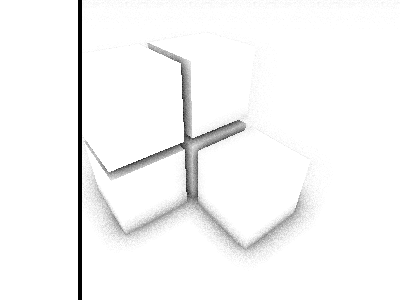
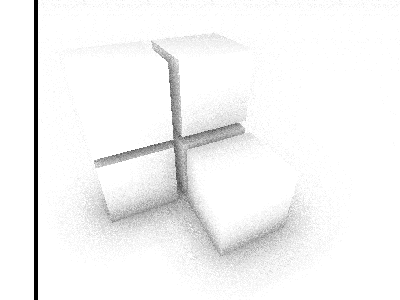
prettier ambient occlussion with less samples

diff --git a/effects/SSAO.java b/effects/SSAO.java
@@ -32,8 +32,8 @@ import de.matthiasmann.twl.utils.PNGDecoder.Format;
 public class SSAO implements OpenGLEffect {
 
 	// TWEAKING
-	private final int SAMPLES = 64;	// <= than 128
-	private final float RADIUS = 0.1f;
+	private final int SAMPLES = 32;	// <= than 128
+	private final float RADIUS = 0.25f;
 	
 	private class Shader {
 		public int id;
